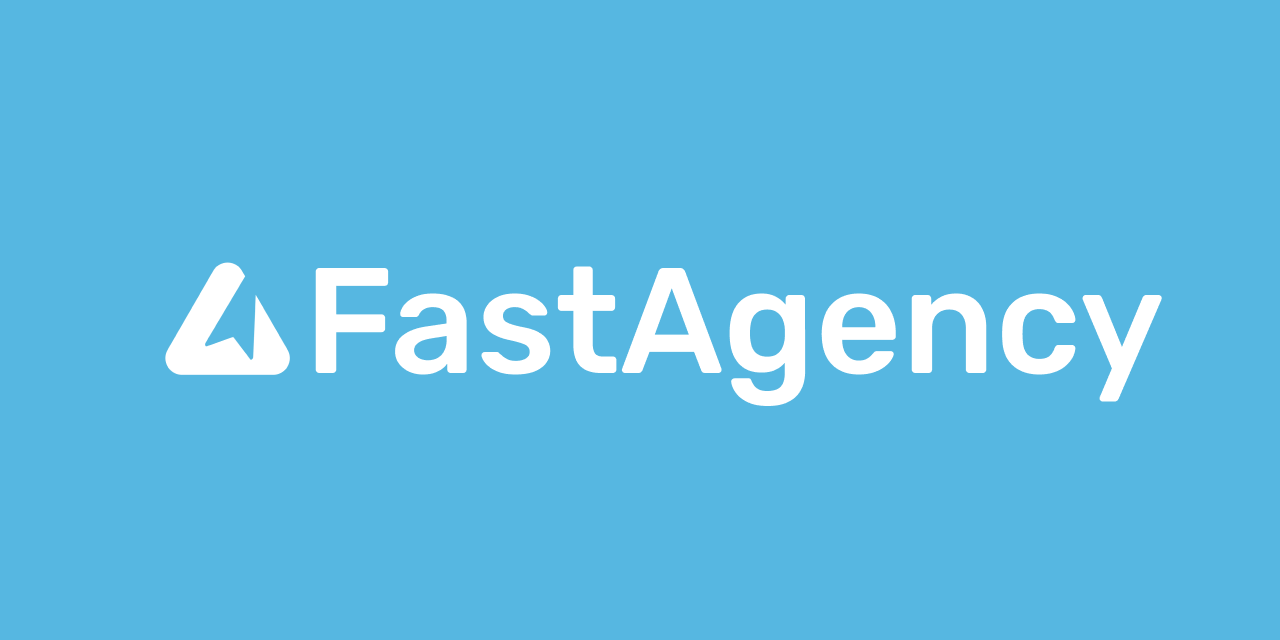
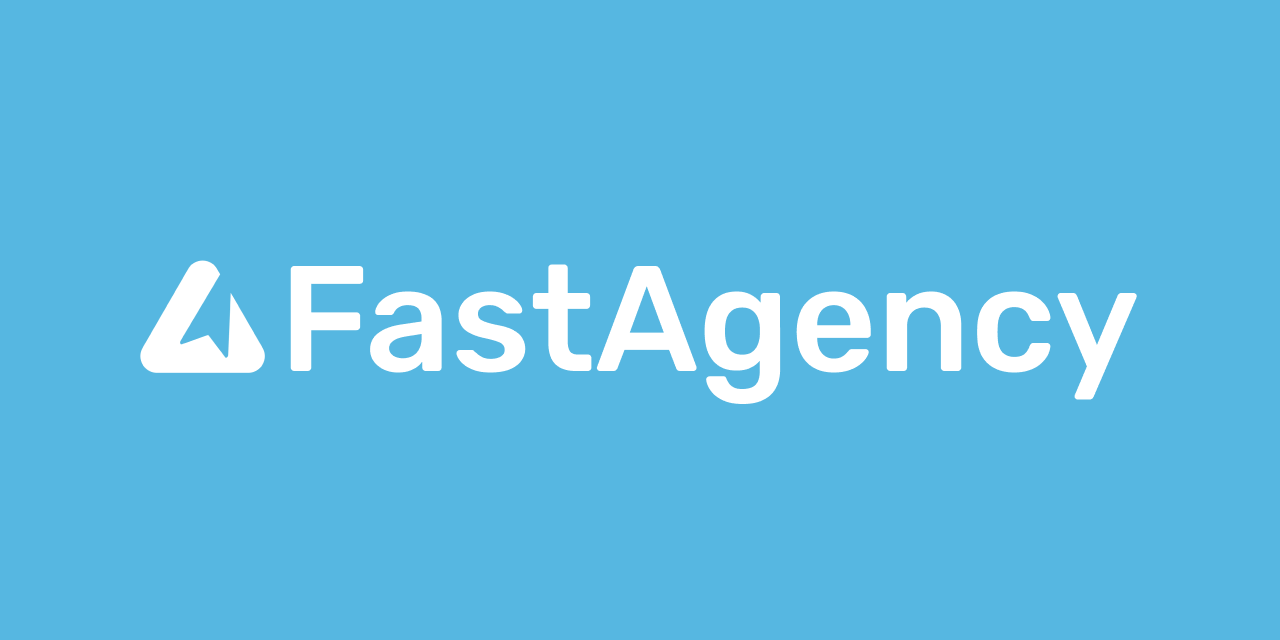
Polishing (#16)

Changed region(s): [[0.0938, 0.4062, 0.9062, 0.6562]]

diff --git a/app/src/client/landing-page/LandingPage.tsx b/app/src/client/landing-page/LandingPage.tsx
@@ -19,7 +19,7 @@ export default function LandingPage() {
 
   const { data: user, isLoading: isUserLoading } = useAuth();
 
-  const NavLogo = () => <img className='h-8 w-8' src={logo} alt='Your SaaS App' />;
+  const NavLogo = () => <img className='h-8' src={logo} style={{ width: '1.8rem' }} alt='FastAgency' />;
 
   return (
     <div className='dark:text-white dark:bg-boxdark-2'>
@@ -32,12 +32,7 @@ export default function LandingPage() {
               className='flex items-center -m-1.5 p-1.5 text-airt-font-base duration-300 ease-in-out hover:text-airt-secondary'
             >
               <NavLogo />
-              <span
-                className='ml-2 text-4xl font-rubik text-airt-font-base leading-6 dark:text-white'
-                style={{ marginTop: '3px' }}
-              >
-                FastAgency
-              </span>
+              <span className='ml-2 text-4xl font-rubik text-airt-font-base leading-6 dark:text-white'>FastAgency</span>
             </a>
           </div>
           <div className='flex lg:hidden'>
@@ -105,7 +100,7 @@ export default function LandingPage() {
                       key={item.name}
                       href={item.href}
                       onClick={() => setMobileMenuOpen(false)}
-                      className='-mx-3 block rounded-lg px-3 py-2 text-base font-semibold leading-7 text-airt-font-base hover:bg-gray-50 dark:text-white dark:hover:bg-boxdark-2'
+                      className='-mx-3 block rounded-lg px-3 py-2 text-base font-semibold leading-7 text-airt-primary hover:bg-gray-50 dark:text-white dark:hover:bg-boxdark-2'
                     >
                       {item.name}
                     </a>
@@ -122,9 +117,9 @@ export default function LandingPage() {
                     <UserMenuItems user={user} />
                   )}
                 </div>
-                <div className='py-6'>
+                {/* <div className='py-6'>
                   <DarkModeSwitcher />
-                </div>
+                </div> */}
               </div>
             </div>
           </Dialog.Panel>
@@ -138,11 +133,11 @@ export default function LandingPage() {
             <div className='mx-auto max-w-8xl px-6 lg:px-8'>
               <div className='lg:mb-18 mx-auto max-w-5xl text-center'>
                 <h1 className='text-4xl font-rubik text-airt-font-base sm:text-6xl dark:text-white'>
-                  FastAgency.ai: Your <span className='italic'>multi-agent</span> AI digital marketing assistant.
+                  FastAgency.ai: A framework for building <span className='italic'>multi-agent </span> AI services.
                 </h1>
                 <p className='mt-6 mx-auto max-w-2xl text-lg leading-8 text-airt-font-base dark:text-white'>
-                  Unleash the full potential of your advertising efforts with personalized, AI-driven strategies that
-                  evolve with your business. 30 days free trial, no credit card required!
+                  Quickly build scalable SaaS solutions using our powerful, multi-agent AI framework that streamlines
+                  complex processes.
                 </p>
                 <div className='mt-10 flex items-center justify-center gap-x-6'>
                   {/* <a

diff --git a/app/src/client/components/AppNavBar.tsx b/app/src/client/components/AppNavBar.tsx
@@ -12,7 +12,7 @@ import DarkModeSwitcher from '../admin/components/DarkModeSwitcher';
 import { UserMenuItems } from '../components/UserMenuItems';
 import { navigation } from '../landing-page/contentSections';
 
-const NavLogo = () => <img className='h-8 w-8' src={logo} alt='Your SaaS App' />;
+const NavLogo = () => <img className='h-8' src={logo} style={{ width: '1.8rem' }} alt='FastAgency' />;
 
 export default function AppNavBar() {
   const [mobileMenuOpen, setMobileMenuOpen] = useState(false);
@@ -21,9 +21,13 @@ export default function AppNavBar() {
   return (
     <header className='absolute inset-x-0 top-0 z-50 shadow sticky bg-airt-primary backdrop-blur-lg backdrop-filter dark:border dark:border-gray-100/10 dark:bg-boxdark-2'>
       <nav className='flex items-center justify-between p-6 lg:px-8' aria-label='Global'>
-        <div className='flex lg:flex-1'>
-          <a href='/' className='-m-1.5 p-1.5'>
-            <img className='h-8 w-8' src={logo} alt='FastAgency' />
+        <div className='flex items-center lg:flex-1'>
+          <a
+            href='/'
+            className='flex items-center -m-1.5 p-1.5 text-airt-font-base duration-300 ease-in-out hover:text-airt-secondary'
+          >
+            <NavLogo />
+            <span className='ml-2 text-4xl font-rubik text-airt-font-base leading-6 dark:text-white'>FastAgency</span>
           </a>
         </div>
         <div className='flex lg:hidden'>
@@ -70,7 +74,7 @@ export default function AppNavBar() {
         <Dialog.Panel className='fixed inset-y-0 right-0 z-50 w-full overflow-y-auto bg-white dark:text-white dark:bg-boxdark px-6 py-6 sm:max-w-sm sm:ring-1 sm:ring-airt-font-base'>
           <div className='flex items-center justify-between'>
             <a href='/' className='-m-1.5 p-1.5'>
-              <span className='sr-only'>Your SaaS</span>
+              <span className='sr-only'>FastAgency</span>
               <NavLogo />
             </a>
             <button
@@ -90,7 +94,7 @@ export default function AppNavBar() {
                     key={item.name}
                     href={item.href}
                     onClick={() => setMobileMenuOpen(false)}
-                    className='-mx-3 block rounded-lg px-3 py-2 text-base font-semibold leading-7 text-airt-font-base hover:bg-gray-50 dark:text-white hover:dark:bg-boxdark-2'
+                    className='-mx-3 block rounded-lg px-3 py-2 text-base font-semibold leading-7 text-airt-primary hover:bg-gray-50 dark:text-white hover:dark:bg-boxdark-2'
                   >
                     {item.name}
                   </a>
@@ -107,9 +111,9 @@ export default function AppNavBar() {
                   <UserMenuItems user={user} setMobileMenuOpen={setMobileMenuOpen} />
                 )}
               </div>
-              <div className='py-6'>
+              {/* <div className='py-6'>
                 <DarkModeSwitcher />
-              </div>
+              </div> */}
             </div>
           </div>
         </Dialog.Panel>

diff --git a/app/src/client/landing-page/contentSections.ts b/app/src/client/landing-page/contentSections.ts
@@ -9,30 +9,31 @@ export const navigation = [
 ];
 export const features = [
   {
-    name: 'Intelligent Strategy Customization',
-    description: 'FastAgency tailors campaigns to your business goals using AI that understands your audience.',
-    icon: '🤖', //'🤝',
+    name: 'Build with Your Own APIs: Integrate Seamlessly with Custom Agent Design',
+    description:
+      'Integrate your existing systems seamlessly by defining agents with your own REST APIs. FastAgency.ai allows you to craft bespoke agents tailored to your specific business processes, enabling a personalized approach to AI-driven solutions. This flexibility ensures that you can create highly specialized services that address unique challenges effectively.',
+    icon: '⚙', //'🤝',
     href: '',
   },
   {
-    name: '360° Campaign Management',
+    name: 'Set It and Forget It: Achieve Autonomous Operations with Minimal Oversight',
     description:
-      'Our specialized AI agents manage everything from keyword selection to budget optimization, keeping your campaigns at peak efficiency.',
-    icon: '👍', //'🔐',
+      'Our platform empowers your agents to operate autonomously, handling complex tasks and decision-making without constant human oversight. This feature not only enhances operational efficiency but also allows your team to focus on strategic activities, boosting productivity and innovation across the board.',
+    icon: '🤖', //'🔐',
     href: '',
   },
   {
-    name: 'Data Privacy First',
+    name: 'Launch Faster Than Ever: Accelerate Time-to-Market with Rapid Deployment',
     description:
-      'Your data remains secure. We offer real-time processing and optional chat history storage to ensure maximum privacy and security for your business information.',
-    icon: '🔐',
+      "Accelerate your time-to-market with FastAgency.ai's streamlined deployment process. Our framework is designed for speed, allowing you to move from concept to launch in record time. This rapid deployment capability ensures that you can quickly adapt to market changes and gain a competitive edge.",
+    icon: '⚡',
     href: '',
   },
   {
-    name: 'Seamless Integration',
+    name: 'Start Collecting Revenue in Just a Week with Rapid Monetization',
     description:
-      'FastAgency seamlessly integrates with your current workflows, beginning with Google Ads and quickly extending to more platforms.',
-    icon: '🤝', //'💸',
+      'Dive into the market swiftly with FastAgency.ai. Our platform enables you to go from setup to sales within a week, allowing you to start generating revenue almost immediately. This rapid monetization feature is designed to give businesses a significant head start, accelerating the return on investment and enabling you to capitalize on AI-driven opportunities faster than ever.',
+    icon: '💸',
     href: '',
   },
 ];

diff --git a/app/src/client/components/Footer.tsx b/app/src/client/components/Footer.tsx
@@ -3,7 +3,7 @@ import FooterMascot from '../static/robot-footer.svg';
 
 export default function Footer() {
   return (
-    <div className='bg-airt-primary px-6 lg:px-8 dark:bg-boxdark-2 pb-24 sm:mt-40'>
+    <div className='bg-airt-primary px-6 lg:px-8 dark:bg-boxdark-2 pb-24 mt-30 sm:mt-40'>
       <section className='relative'>
         <div className='flex items-center justify-center'>
           <img className='absolute -top-17 left-1/2 transform -translate-x-1/2 h-auto w-28' src={FooterMascot} />
